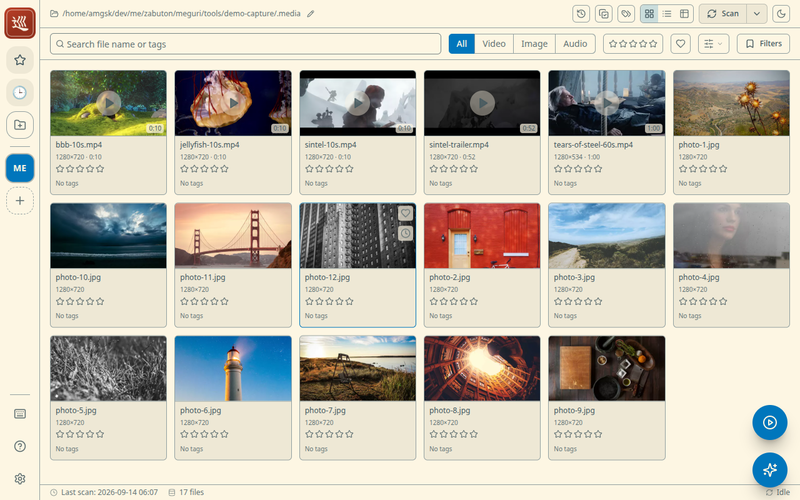
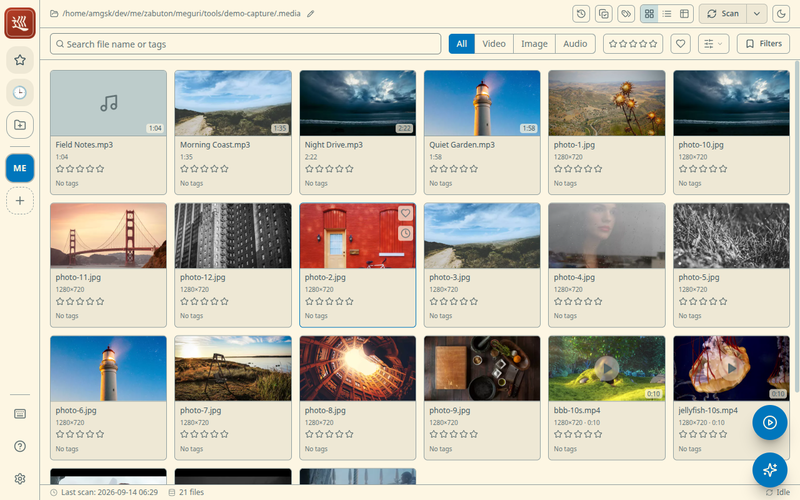
docs: document audio playback and add its capture
- Describe audio in the README features, usage table and screenshots,
  and add a "Listening to audio" chapter to the user guide
- Synthesise a few audio tracks with embedded cover art in
  fetch-media.mjs (tones and noise, nothing to license) and add
  shoot-audio.mjs for the player-bar shot
- Retake every screenshot against the same library, audio included
- Replace the Hyprland window-rule note with hypr-float.sh, which floats
  and sizes the mapped window through the Lua dispatcher API

diff --git a/docs/guide.html b/docs/guide.html
@@ -83,6 +83,7 @@
     <li><a href="#getting-started">Getting started</a></li>
     <li><a href="#browsing">Browsing your library</a></li>
     <li><a href="#playing">Playing videos and viewing photos</a></li>
+    <li><a href="#audio">Listening to audio</a></li>
     <li><a href="#search">Search and filters</a></li>
     <li><a href="#tags">Tags, ratings, and favorites</a></li>
     <li><a href="#collections">Collections</a></li>
@@ -178,12 +179,28 @@
   <p>The detail view is also where you edit a file's tags and rating, mark it
   as a favorite, and add scene bookmarks.</p>
 
+  <h2 id="audio">Listening to audio</h2>
+  <img class="shot" src="./assets/audio.png" alt="A track playing in the bottom player bar while the library is browsed above it">
+  <p>Music and other audio files (mp3, m4a, flac, ogg, opus, wav) sit in the
+  library next to your videos and photos, with any embedded cover art as
+  their thumbnail. Clicking one starts it in a <strong>player bar</strong>
+  along the bottom of the window rather than opening it: the bar shows the
+  cover, the title, a seek bar and the volume, and it keeps playing while
+  you scroll, search, or open other files. Close it with the × at its right
+  end.</p>
+  <p>To edit a track's tags and rating, open its detail view from the name
+  on its card, or from the title in the player bar. The detail view shows the
+  cover art large with the same transport underneath, and closing it hands
+  playback straight back to the bar without a gap.</p>
+  <p>Starting a video pauses the track, and the other way round, so the two
+  never play over each other.</p>
+
   <h2 id="search">Search and filters</h2>
   <p>The search bar at the top filters your whole library. You can combine:</p>
   <ul>
     <li><strong>Text search</strong> — matches file names, paths, and tags
     (full-text search, so partial words work).</li>
-    <li><strong>Kind</strong> — only videos, or only images.</li>
+    <li><strong>Kind</strong> — only videos, only images, or only audio.</li>
     <li><strong>Tags</strong> — one or more tags.</li>
     <li><strong>Rating</strong> — minimum ★ rating.</li>
     <li><strong>Favorites</strong> — only files you've marked.</li>

diff --git a/README.md b/README.md
@@ -135,6 +135,10 @@ Or run from source — see [Setup and Launch](#setup-and-launch).
 - 🖼 **Automatic thumbnails** — WebP thumbnails for both images and videos,
   generated by the bundled ffmpeg; hovering a video thumbnail scrubs through
   its scenes like a seek bar (toggleable in Settings)
+- 🎵 **Audio** — music and other audio files are scanned alongside video and
+  images, with embedded cover art as their thumbnails; a click plays them in a
+  bottom player bar that keeps going while you browse, and the detail view
+  holds their tags, rating, and history like any other file
 - 🎬 **Smooth playback** — Range-enabled streaming from a local HTTP server;
   non-faststart containers are remuxed to fragmented MP4 on the fly (time seek
   via `?t`), and unplayable codecs are handed off to the OS default player
@@ -165,6 +169,10 @@ Or run from source — see [Setup and Launch](#setup-and-launch).
 The detail view docked beside the library as a side peek:
 
 ![Side peek](./docs/assets/side-peek.png)
+
+A track playing in the bottom player bar while browsing:
+
+![Audio player bar](./docs/assets/audio.png)
 
 Grid, list, and table layouts for browsing:
 
@@ -266,7 +274,7 @@ already run Electron apps locally.
 | Action     | How                                                                                                                |
 | ---------- | ------------------------------------------------------------------------------------------------------------------ |
 | Scan       | Runs automatically at startup. Re-scan via the header "Scan" (incremental, move tracking)                          |
-| Play       | Click a thumbnail → play in the detail view. When unsupported, use "Open externally"                               |
+| Play       | Click a thumbnail → play in the detail view (audio plays in the bottom bar). When unsupported, use "Open externally" |
 | Tag / Rate | Assign in the detail view (tags have autocomplete). Click a tag in the grid to search                              |
 | Search     | Filter and sort by full text, kind, and rating in the top bar (conditions shown as badges, individually removable) |
 | Theme      | Switch from Theme at the top-right of the header                                                                   |

diff --git a/tools/demo-capture/README.md b/tools/demo-capture/README.md
@@ -24,6 +24,7 @@ node tools/demo-capture/record-playlist.mjs  # playlist.gif — playlist player
 node tools/demo-capture/shoot-gallery.mjs    # theme-*.png / view-*.png
 node tools/demo-capture/shoot-history.mjs    # history.png — play-history view
 node tools/demo-capture/shoot-peek.mjs       # side-peek.png — side peek
+node tools/demo-capture/shoot-audio.mjs      # audio.png — player bar
 ```
 
 To use your own media instead of the sample library:
@@ -48,16 +49,19 @@ xvfb-run -a -s "-screen 0 1400x1000x24" \
   node tools/demo-capture/record-demo.mjs
 ```
 
-`shoot-peek.mjs` needs a real display: under Xvfb the built-in player fails
-to decode the sample videos, and the sheet would show the fallback notice
-instead of a playing frame. On a tiling compositor, float the window first so
-it keeps the requested 1280×800 — on Hyprland, for example:
+`fetch-media.mjs` also synthesises a few audio tracks (tones and noise,
+with a photo embedded as cover art) into `Music/`; `--audio-only` rewrites
+just those.
+
+`shoot-peek.mjs` and `shoot-audio.mjs` need a real display: under Xvfb the
+built-in player fails to decode the sample videos, and the sheet would show
+the fallback notice instead of a playing frame. On a tiling compositor the
+window has to be floated so it keeps the requested 1280×800; on Hyprland,
+`hypr-float.sh` waits for the app window, floats it and sizes it — run it in
+the background right before the script:
 
 ```bash
-hyprctl keyword windowrulev2 "float, class:^([Mm]eguri|[Ee]lectron)$"
-hyprctl keyword windowrulev2 "size 1280 800, class:^([Mm]eguri|[Ee]lectron)$"
-node tools/demo-capture/shoot-peek.mjs
-hyprctl reload   # drop the temporary rules
+tools/demo-capture/hypr-float.sh & node tools/demo-capture/shoot-peek.mjs
 ```
 
 ## Notes
